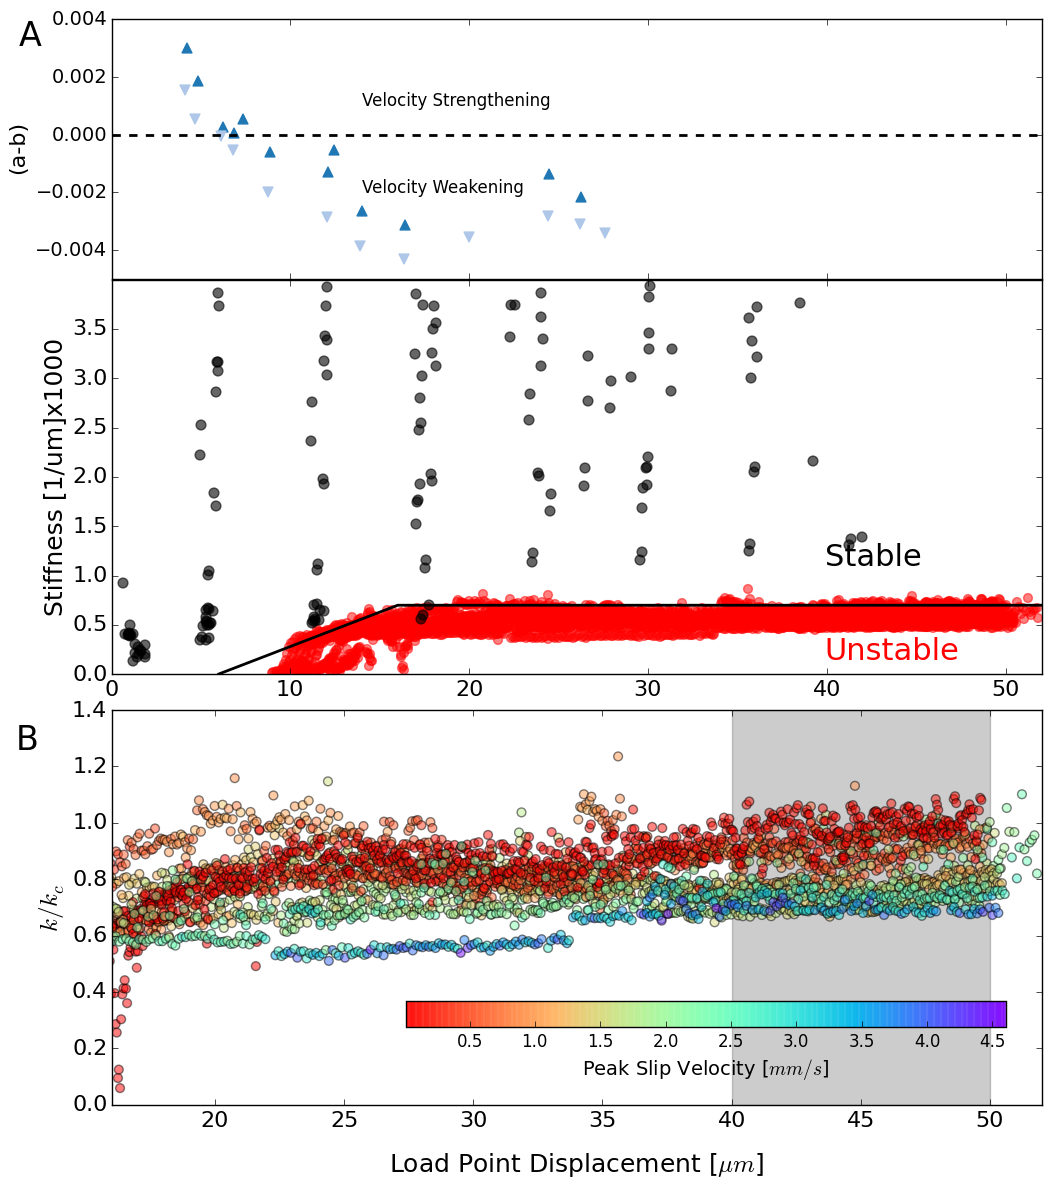
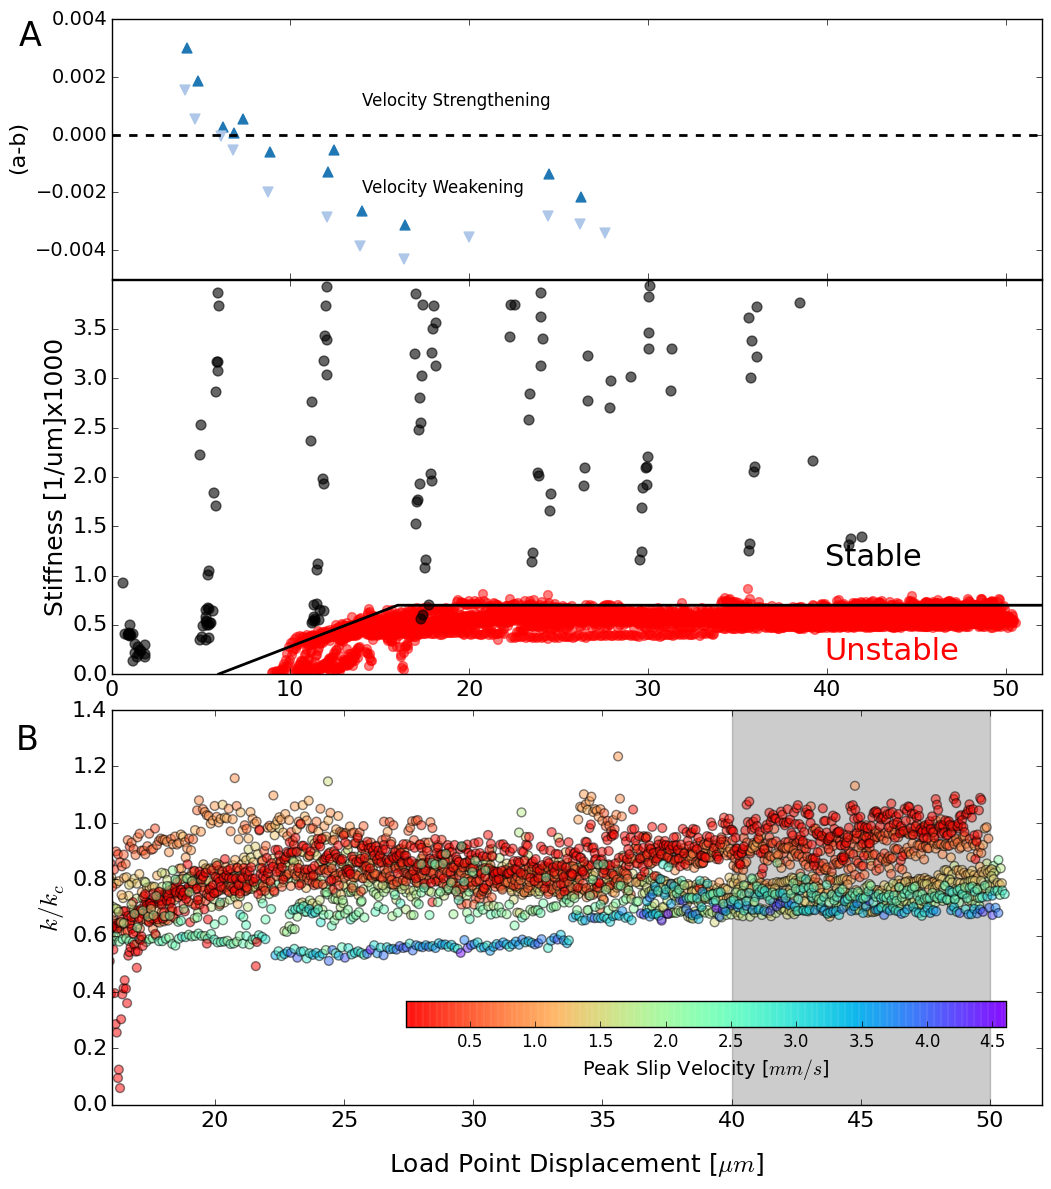
Remove p4342 from plot due to data quality

diff --git a/Figures/Fig_Slip_Properties/make_final_plot.py b/Figures/Fig_Slip_Properties/make_final_plot.py
@@ -58,7 +58,8 @@ for i in range(len(tableau20)):
     tableau20[i] = (r / 255., g / 255., b / 255.)
 
 # Tuple of experiments we'll consider for plotting even data from
-experiments_with_event_data = ('p4342','p4343','p4344','p4345','p4346',
+# Removed p4342 due to data quality issues 2/16/15
+experiments_with_event_data = ('p4343','p4344','p4345','p4346',
                                'p4347','p4348','p4350','p4351')
 
 # Tuple of experiments we'll plot unload/reload stiffness from
